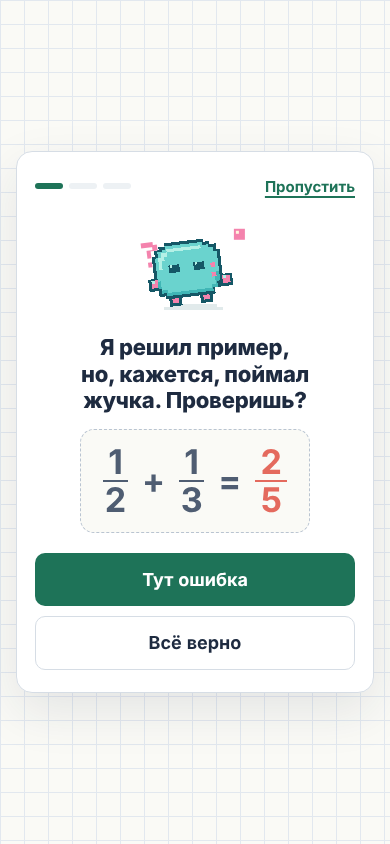
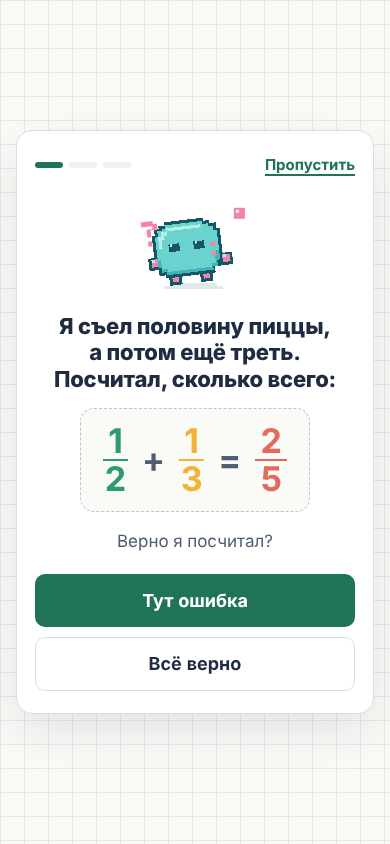
Знакомство: пример про пиццу вместо абстрактных полосок
Шаг 1 — история: съел половину пиццы и ещё треть, Бипыч посчитал 2/5.
Шаг 2 — пример остаётся на экране, у каждой дроби свой цвет; две пиццы:
сколько съели на самом деле и что вышло у Бипыча (меньше половины).
Шаг 3 — где ошибка (сложил верх с верхом и низ с низом, а куски разного
размера) и как верно: 6 кусков, 3 + 2 = 5/6. Текст сокращён до одного экрана.

Claude-Session: https://claude.ai/code/session_01UAozKBMKcusgwCpJ2LnUTs

diff --git a/app.js b/app.js
@@ -751,36 +751,53 @@ function home() {
    чужую ошибку, видит, как её ломает простой пример, и узнаёт, как работает Вектор. */
 let introStep = 1, introPick = null, introMiss = false;
 const INTRO_BUG = 'add-diff:add-denominators';
+// Пицца: круг на n кусков, закрашенные группы — [сколько кусков, цвет]. Подписей внутри нет: их даёт текст рядом.
+function introPizza(n, groups, label) {
+  const R = 52, C = 60, pt = a => `${(C + R * Math.sin(a)).toFixed(1)} ${(C - R * Math.cos(a)).toFixed(1)}`;
+  const step = 2 * Math.PI / n; let k = 0;
+  const wedges = groups.flatMap(([cnt, col]) => Array.from({ length: cnt }, () => { const a = k++ * step;
+    return `<path d="M${C} ${C} L${pt(a)} A${R} ${R} 0 0 1 ${pt(a + step)} Z" fill="${col}"/>`; })).join('');
+  const cuts = Array.from({ length: n }, (_, m) => `<line x1="${C}" y1="${C}" x2="${pt(m * step).replace(' ', '" y2="')}" />`).join('');
+  return `<svg class="intro-pizza" viewBox="0 0 120 120" role="img" aria-label="${label}"><circle cx="${C}" cy="${C}" r="${R + 4}" fill="#E9B872"/><circle cx="${C}" cy="${C}" r="${R}" fill="#FFF3D6"/>${wedges}<g stroke="#C98B3A" stroke-width="1.5">${cuts}</g><circle cx="${C}" cy="${C}" r="${R}" fill="none" stroke="#C98B3A" stroke-width="1.5"/></svg>`;
+}
 function introPage() {
   const senior = window.VEKTOR_TONE.senior(), F = V.f;
   const bug = window.VEKTOR_BUGS && window.VEKTOR_BUGS.byKey[INTRO_BUG];
-  const sum = `<div class="intro-board" role="img" aria-label="Одна вторая плюс одна третья равно две пятых">${F(1, 2)}<span>+</span>${F(1, 3)}<span>=</span>${F(2, 5)}</div>`;
+  // пример всегда перед глазами; у каждой дроби свой цвет — те же цвета на пиццах
+  const sum = (big) => `<div class="intro-board${big ? '' : ' intro-board-small'}" role="img" aria-label="Одна вторая плюс одна третья равно две пятых"><span class="ib-half">${F(1, 2)}</span><span>+</span><span class="ib-third">${F(1, 3)}</span><span>=</span><span class="ib-bip">${F(2, 5)}</span></div>`;
   const dots = `<ol class="intro-dots" aria-label="Шаг ${introStep} из 3">${[1, 2, 3].map(k => `<li class="${k < introStep ? 'is-done' : k === introStep ? 'is-now' : ''}"></li>`).join('')}</ol>`;
+  const HALF = 'var(--intro-half)', THIRD = 'var(--intro-third)', BIP = 'var(--intro-bip)';
   let body;
   if (introStep === 1) body = `
-      <h1 class="intro-title">${senior ? 'Одноклассник решил пример. Здесь всё верно?' : 'Я решил пример, но, кажется, поймал жучка. Проверишь?'}</h1>
-      ${sum}
+      <h1 class="intro-title">${senior ? 'Проверь решение одноклассника' : 'Я съел половину пиццы, а потом ещё треть. Посчитал, сколько всего:'}</h1>
+      ${senior ? '<p class="intro-text">Половина пиццы и ещё треть — сколько это вместе? Он посчитал так:</p>' : ''}
+      ${sum(true)}
+      <p class="intro-text">${senior ? 'Здесь всё верно?' : 'Верно я посчитал?'}</p>
       <div class="intro-actions"><button class="btn btn-primary btn-big" data-intro-pick="wrong">${senior ? 'Есть ошибка' : 'Тут ошибка'}</button><button class="btn btn-ghost btn-big" data-intro-pick="right">Всё верно</button></div>`;
   else if (introStep === 2) body = `
-      <h1 class="intro-title">${introPick === 'wrong' ? (senior ? 'Верно, ошибка есть. Докажем её.' : 'Зоркий глаз! Давай докажем.') : 'Давай проверим на полосках.'}</h1>
-      <p class="intro-text">Сверху — половина. Снизу — ответ ${F(2, 5)}. К половине прибавили ещё кусочек. Могло получиться меньше половины?</p>
-      <div class="intro-figure">${V.figure({ type: 'pair', a: [1, 2], b: [2, 5] })}</div>
-      ${introMiss ? `<p class="intro-hint" role="status">Прибавили — значит, стало больше. А ${F(2, 5)} меньше половины: посмотри, нижняя полоска короче.</p>` : ''}
-      <div class="intro-actions"><button class="btn btn-primary btn-big" data-intro-pick="never">Нет, так не бывает</button><button class="btn btn-ghost btn-big" data-intro-pick="maybe">Могло</button></div>`;
+      ${sum(false)}
+      <h1 class="intro-title">${introPick === 'wrong' ? (senior ? 'Верно, ошибка есть. Докажем на пицце.' : 'Зоркий глаз! Давай проверим на пицце.') : 'Давай проверим на пицце.'}</h1>
+      <div class="intro-pizzas">
+        <figure>${introPizza(6, [[3, HALF], [2, THIRD]], 'Пицца: закрашена половина и ещё треть — почти вся')}
+          <figcaption><b>Сколько съели</b><span><i class="dot dot-half"></i>половина <i class="dot dot-third"></i>и ещё треть</span></figcaption></figure>
+        <figure>${introPizza(5, [[2, BIP]], 'Пицца на пять кусков, закрашены два — меньше половины')}
+          <figcaption><b>Что вышло у ${senior ? 'него' : 'Бипыча'}</b><span><i class="dot dot-bip"></i>2 куска из 5</span></figcaption></figure>
+      </div>
+      <p class="intro-text">${senior ? 'Слева съедено больше половины пиццы. А по его ответу — меньше половины.' : 'Слева видно: съели больше половины пиццы. А у меня вышло меньше половины!'} Может такое быть?</p>
+      ${introMiss ? `<p class="intro-hint" role="status">Посмотри на левую пиццу: целая половина и ещё кусок. Это точно больше, чем ${F(2, 5)} на правой.</p>` : ''}
+      <div class="intro-actions"><button class="btn btn-primary btn-big" data-intro-pick="never">Нет, съели больше</button><button class="btn btn-ghost btn-big" data-intro-pick="maybe">Может</button></div>`;
   else body = `
       <div class="intro-trophy">${window.VEKTOR_TONE.art(bug, { size: 88, status: 'beaten' })}</div>
       <h1 class="intro-title">${senior ? 'Ты нашёл неверное правило' : 'Ты поймал первого жучка!'}</h1>
-      <p class="intro-text">${senior ? `«${esc(bug ? bug.title : 'Складывает числители и знаменатели')}». С таким правилом в голове ошибаются от 5 класса до ОГЭ.` : `Это ${esc(bug ? bug.kidName : 'Складыватель')}: он складывает и верх, и низ. Такой жучок живёт у многих — а ты его уже раскусил.`}</p>
-      <ol class="intro-how">
-        <li><span><b>Находим</b> неверное правило, а не просто неверный ответ</span></li>
-        <li><span><b>Ломаем</b> его простым примером, как сейчас</span></li>
-        <li><span><b>Проверяем через день</b>, что оно не вернулось</span></li>
-      </ol>
+      ${senior ? '' : `<p class="intro-text">Это ${esc(bug ? bug.kidName : 'Складыватель')} — он живёт у многих.</p>`}
+      <div class="intro-why"><p><b>${senior ? 'Ошибка:' : 'Я ошибся:'}</b> сложил верх с верхом (1 + 1) и низ с низом (2 + 3). А половина и треть — куски разного размера.</p>
+        <p><b>Верно:</b> режем пиццу на 6 кусков. Половина — 3 куска, треть — 2. Вместе ${F(5, 6)}.</p></div>
+      <p class="intro-how-line"><span>Так работает Вектор:</span> <b>находим</b> неверное правило → <b>ломаем</b> примером → <b>проверяем через день</b></p>
       <div class="intro-actions"><button class="btn btn-primary btn-big" data-intro-go="diagnostic">${senior ? 'Проверить себя: 6 задач' : 'Найти моих жучков: 6 задач'}</button><button class="btn btn-ghost btn-big" data-intro-go="home">Сразу к первой теме</button></div>`;
   return `<section class="intro intro-step-${introStep}" aria-live="polite">
     <div class="intro-card">
       <div class="intro-top">${dots}${introStep < 3 ? '<button class="link small" data-intro-skip>Пропустить</button>' : ''}</div>
-      ${senior || introStep === 3 ? '' : '<div class="intro-pet" id="pet-intro" aria-hidden="true"></div>'}
+      ${senior || introStep !== 1 ? '' : '<div class="intro-pet" id="pet-intro" aria-hidden="true"></div>'}
       <div class="intro-body">${body}</div>
     </div>
   </section>`;

diff --git a/style.css b/style.css
@@ -1047,3 +1047,29 @@ body.is-intro #app{max-width:none;padding:0}
 .ld-teacher-links{display:flex;flex-wrap:wrap;gap:10px;margin:0}
 .ld-foot-links{display:flex;gap:18px;flex-wrap:wrap}
 @media (max-width:900px){.ld-two{grid-template-columns:1fr;padding:40px 0}.ld-two-card{padding:22px}}
+
+/* Знакомство: пример с пиццей — у каждой дроби свой цвет, тот же на картинке */
+.intro{--intro-half:#2E9B6F;--intro-third:#F2B233;--intro-bip:#E46A5E}
+.intro-board .ib-half .frac{color:var(--intro-half)}
+.intro-board .ib-third .frac{color:var(--intro-third)}
+.intro-board .ib-bip .frac{color:var(--intro-bip)}
+.intro-board>span{display:inline-flex}
+.intro-board>span:not([class]){color:var(--ink-2);font-weight:700}
+.intro-board-small{font-size:26px;padding:10px 18px;gap:10px}
+.intro-pizzas{display:grid;grid-template-columns:1fr 1fr;gap:14px;width:100%}
+.intro-pizzas figure{margin:0;display:grid;justify-items:center;gap:8px;padding:12px 8px;border-radius:14px;background:var(--paper)}
+.intro-pizza{width:min(150px,100%);height:auto;animation:intro-pop .45s cubic-bezier(.3,1.5,.5,1) both}
+.intro-pizzas figure:nth-child(2) .intro-pizza{animation-delay:.15s}
+.intro-pizzas figcaption{display:grid;gap:2px;font-size:14px;color:var(--ink-2);text-align:center}
+.intro-pizzas figcaption b{color:var(--ink);font-size:15px}
+.intro .dot{display:inline-block;width:10px;height:10px;border-radius:50%;margin:0 4px 0 2px;vertical-align:baseline}
+.intro .dot-half{background:var(--intro-half)}.intro .dot-third{background:var(--intro-third)}.intro .dot-bip{background:var(--intro-bip)}
+.intro-why{display:grid;gap:8px;text-align:left;width:100%}
+.intro-why p{margin:0;padding:10px 14px;border-radius:10px;background:var(--paper);font-size:15px;color:var(--ink-2)}
+.intro-why b{color:var(--ink)}
+.intro-why .frac{color:var(--ink);font-size:.95em}
+.intro-how-line{margin:0;font-size:14px;color:var(--ink-2);line-height:1.5;text-wrap:balance}
+.intro-how-line span{display:block;font-weight:700;color:var(--green)}
+.intro-how-line b{color:var(--ink)}
+@media (max-width:480px){.intro-board-small{font-size:22px}.intro-pizzas{gap:10px}.intro-pizzas figure{padding:10px 4px}}
+@media (prefers-reduced-motion:reduce){.intro-pizza{animation:none}}

diff --git a/tests/ux_scenario.py b/tests/ux_scenario.py
@@ -18,12 +18,12 @@ async def main():
             rep(f'{w}: новый ученик сначала видит знакомство', '#intro' in pg.url and await pg.locator('.intro [data-intro-pick]').count() == 2)
             rep(f'{w}: в знакомстве нет меню и экскурсии', not await pg.is_visible('.sidebar') and await pg.locator('.tour-tip').count() == 0)
             await pg.click('[data-intro-pick=right]'); await pg.wait_for_timeout(150)
-            rep(f'{w}: шаг 2 — полоски для сравнения', await pg.locator('.intro-figure svg').count() == 1)
+            rep(f'{w}: шаг 2 — пример на экране и две пиццы', await pg.locator('.intro-board-small').count() == 1 and await pg.locator('.intro-pizza').count() == 2)
             await pg.click('[data-intro-pick=maybe]'); await pg.wait_for_timeout(150)
             rep(f'{w}: неверный выбор — подсказка, а не «неверно»', await pg.locator('.intro-hint').count() == 1 and 'неверно' not in (await pg.inner_text('.intro')).lower())
             await pg.click('[data-intro-pick=never]'); await pg.wait_for_timeout(300)
             txt = await pg.inner_text('.intro')
-            rep(f'{w}: шаг 3 — пойман жучок и как работает Вектор', 'Складыватель' in txt and 'Проверяем через день' in txt)
+            rep(f'{w}: шаг 3 — пойман жучок, почему ошибка и как верно', 'Складыватель' in txt and 'разного размера' in txt and 'проверяем через день' in txt)
             rep(f'{w}: нет прокрутки вбок', not await pg.evaluate("document.documentElement.scrollWidth > innerWidth + 1"))
             await pg.click('[data-intro-go=home]'); await pg.wait_for_timeout(400)
             rep(f'{w}: после знакомства — главная, знакомство запомнено', pg.url.endswith('#home') and await pg.evaluate("state.introDone === true"))
